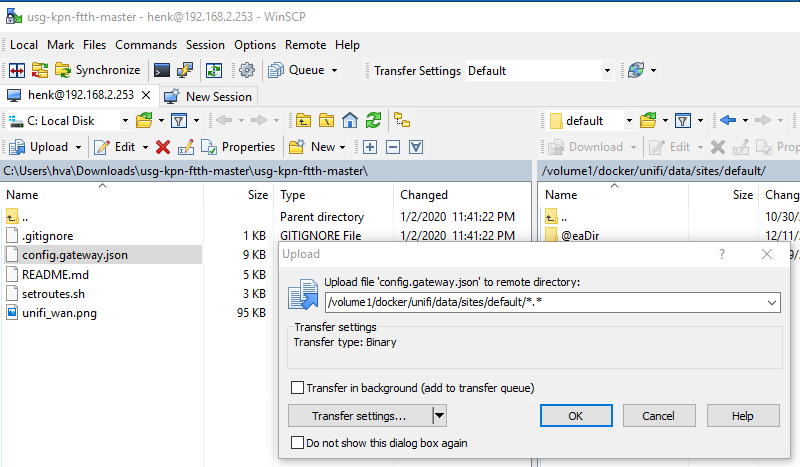
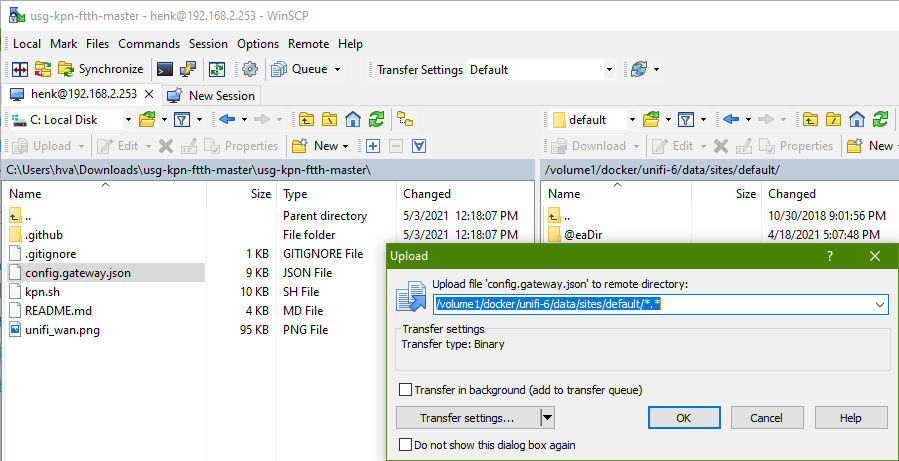
update to kpn-aio

Changed region(s): [[0.0, 0.0, 1.0, 1.0], [0.7812, 0.1215, 0.8125, 0.1822], [0.6875, 0.1215, 0.7188, 0.1822]]

diff --git a/_posts/2021-01-18-unifi-security-gateway-kpn-l2tp-vpn.md b/_posts/2021-01-18-unifi-security-gateway-kpn-l2tp-vpn.md
@@ -29,18 +29,6 @@ De volgende hardware hebben we nodig om deze handleiding te kunnen voltooien.
 |Unifi&nbsp;controller|Ubiquiti / anders|Met de controller stel je de USG in, deze kan op een stuk hardware (cloudkey) draaien maar ook op je computer, server, NAS rechstreeks of bijvoorbeeld via docker.|
 |VPN Client|Telefoon/Laptop|Een apparaat wat L2TP VPN ondersteuning heeft (Andriod, IOS, Mac (OSX) of Windows) en de mogelijkheid om dit te testen buiten je eigen internet verbinding om, bijvoorbeeld via 4G of WiFi van de buren.|
 
-> ***Let op:*** deze handleiding is bedoeld voor een Ubiquity Unifi Security Gateway 3. Indien je een USG 4 Pro hebt dien je in de setvpn.sh de interfaces aan te passen op de manier waarop je je USG 4 Pro hebt aangesloten. Bij de USG 3 is eth0 WAN en eth1 LAN.
-
-### Software
-
-In deze handleiding ga ik er vanuit dat we Windows 10 gebruiken waarbij we onderstaande software gaan gebruiken. Graag deze bestanden downloaden zodat ze klaar staan als we gaan beginnen.
-
-|Software|Omschrijving|
-|:---|:--|
-|[putty.exe&nbsp;(64&#x2011;bit)](https://www.chiark.greenend.org.uk/~sgtatham/putty/latest.html){:target="_blank"}|Met dit programma kunnen we via SSH inloggen op de USG en eventueel de controller om commando's uit te voeren.|
-|[WinSCP&nbsp;Portable](https://winscp.net/eng/downloads.php){:target="_blank"}|WinSCP gebruiken we om via Secure Copy Protocol bestanden van onze computer naar de USG en eventueel de controller te krijgen.|
-|[usg-kpn-ftth-vpn zip](https://github.com/coolhva/usg-kpn-ftth/archive/vpn.zip){:target="_blank"}|De inhoud van mijn github repo met VPN ondersteuning in zip formaat zodat we alle bestanden in het juiste (UNIX) formaat hebben. Deze gaan we later naar de juiste locaties (Controller) verplaatsen.|
-
 ### Gegevens
 
 Onderstaande informatie gaan we gebruiken in deze handleiding.
@@ -50,13 +38,6 @@ Onderstaande informatie gaan we gebruiken in deze handleiding.
 |Extern IPv4 adres|Dit is het IPv4 adres van je KPN aansluiting, dit kan je achterhalen om via je KPN verbinding naar bijvoorbeeld [test-ipv6.com](https://test-ipv6.com/) te gaan. ![get_ip_address](/usg-kpn-ftth/assets/img/usgkpnvpn/usg_vpn_get_remote_ip.png)|
 |URL&nbsp;Controller|Dit is het web adres waarop de unifi controller bereikbaar is, deze is bereikbaar op een IP adres en draait vaak op poort 8443 (HTTPS).|
 |Controller&nbsp;login|De gebruikersnaam en wachtwoord om in te kunnen loggen op de controller.|
-|SSH&nbsp;login&nbsp;gegevens USG|De gebruikersnaam en wachtwoord om via SSH in te kunnen loggen op de USG (zie kopje hieronder).|
-
-### SSH toegang unifi apparaten
-
-Om toegang te krijgen tot de USG via SSH moet dit geconfigureerd zijn. In de webinterface van de controller ga je naar <kbd>settings</kbd> en dan naar <kbd>Controller Configuration</kbd> en scroll je naar beneden naar <kbd>Element SSH Authentication</kbd>. Hier vink je <kbd>Element SSH authentication</kbd> aan en kies je een gebruikersnaam en wachtwoord. Daarna klik je op <kbd>Apply Changes</kbd>. Vanaf nu kan je met deze gebruikersnaam en wachtwoord via SSH inloggen op de USG.
-
-![unifi_controller_ssh](/usg-kpn-ftth/assets/img/usgkpn/unifi_controller_ssh.png)
 
 ## Uitgangssituatie
 
@@ -70,10 +51,6 @@ Voordat we beginnen moeten we eerst weten waar we starten. In deze handleiding s
 4. Ook zit de IPTV setupbox van KPN via een ethernet kabel verbonden aan een switch met IGMP en VLAN ondersteuning.
 5. Deze handleiding ([link](/usg-kpn-ftth/posts/unifi-security-gateway-kpn-ftth-iptv-ipv6/index.html)) is uitgevoerd en TV en internet werkt op dit moment.
 6. `[Optioneel]` De IPTV kastjes zitten in hun eigen VLAN door middel van deze handleiding [link](/usg-kpn-ftth/posts/unifi-security-gateway-kpn-iptv-vlan/index.html).
-
-Als we de bestanden hebben gedownload pakken we de twee zip bestanden (winscp en usg-kpn-ftth vpn.zip) uit zodat we een map met WinSCP, een map met de configuratie bestanden en als laatst putty.exe hebben.
-
-![files_downloaded](/usg-kpn-ftth/assets/img/usgkpnvpn/usg_vpn_files.png)
 
 ## Oude interface inschakelen
 
@@ -128,33 +105,9 @@ In de lijst met netwerken moet het nieuw aangemaakte VPN netwerk er nu bij staan
 
 ## WAN Netwerk controleren
 
-Het is belangrijk om te zorgen dat het WAN netwerk niet is geconfigureerd en dat <kbd>Use VLAN ID</kbd> is uitgevinkt. Het WAN netwerk wordt namelijk via de config.gateway.json geconfigureerd en ook setvpn.sh gaat er vanuit dat het WAN netwerk als volgt is ingesteld. Je kan deze instellingen bereiken door via <kbd>Settings</kbd> naar <kbd>Networks</kbd> te gaan en dan te kiezen voor <kbd>Edit</kbd> bij het <kbd>WAN</kbd> netwerk.
+Het is belangrijk om te zorgen dat het WAN netwerk niet is geconfigureerd en dat <kbd>Use VLAN ID</kbd> is uitgevinkt. Het WAN netwerk wordt namelijk via de config.gateway.json geconfigureerd en ook kpn.sh gaat er vanuit dat het WAN netwerk als volgt is ingesteld. Je kan deze instellingen bereiken door via <kbd>Settings</kbd> naar <kbd>Networks</kbd> te gaan en dan te kiezen voor <kbd>Edit</kbd> bij het <kbd>WAN</kbd> netwerk.
 
 ![networks_wan](/usg-kpn-ftth/assets/img/usgkpnvpn/usg_vpn_wan.png)
-
-## Setvpn.sh plaatsen
-
-Start WinSCP en klik in WinSCP op de knop <kbd>New Session</kbd> en vul de gegevens in van de USG. De eventuele waarschuwing van unkown server beantwoordt je met <kbd>Yes</kbd>. Een popup met een welkomstboodschap verschijnt en hier mag je op <kbd>Continue</kbd> klikken.
-
-![winscp_usg](/usg-kpn-ftth/assets/img/usgkpn/winscp_usg.png)
-
-Nadat de verbinding tot stand is gekomen navigeren we in het rechter venster naar de locatie ```/config/scripts/post-config.d```. In het linker scherm selecteren we setvpn.sh en klikken we weer op de knop <kbd>Upload</kbd>. Klik hierna op <kbd>Ok</kbd> en daarna is het bestand op de USG geplaatst.
-
-![winscp_usg_upload](/usg-kpn-ftth/assets/img/usgkpnvpn/usg_vpn_transfer_file.png)
-
-Nu moeten we het bestand uitvoerbaar maken. Dat doen we door de het bestand te selecteren en daarna met de rechtermuisknop er op te klikken en voor <kbd>Properties</kbd> te kiezen.
-
-![winscp_usg_select](/usg-kpn-ftth/assets/img/usgkpnvpn/usg_vpn_setvpn_properties.png)
-
-In de eigenschappen mag je een vinkje zetten bij elke <kbd>X</kbd> (bij <kbd>Octal</kbd> komt nu <kbd>0755</kbd> te staan) en daarna op <kbd>Ok</kbd> klikken.
-
-![winscp_usg_chmod](/usg-kpn-ftth/assets/img/usgkpnvpn/usg_vpn_setvpn_chmod_755.png)
-
-Nu mag je WinSCP sluiten en in de controller naar <kbd>Devices</kbd> gaan. Ga met de muis op de regel van de USG staan, rechts verschijnt de herstart optie en dan klik je op <kbd>Restart</kbd>.
-
-![unifi_controller_usg_restart](/usg-kpn-ftth/assets/img/usgkpnvpn/usg_vpn_restart.png)
-
-Na de herstart worden de VPN instellingen geactiveerd en kunnen we nu de VPN gaan testen.
 
 ## VPN Testen
 In dit voorbeeld pak ik een iPhone maar dezelfde logica kan worden gebruikt op een Android telefoon of laptop.

diff --git a/_posts/2019-12-31-unifi-security-gateway-kpn-ftth-iptv-ipv6.md b/_posts/2019-12-31-unifi-security-gateway-kpn-ftth-iptv-ipv6.md
@@ -117,17 +117,17 @@ Ik start door WinSCP.exe te openen en de gegevens van mijn controller in te vull
 
 ![winscp_controller_upload](/usg-kpn-ftth/assets/img/usgkpn/winscp_controller_upload.png)
 
-In het rechter venster navigeer ik naar de locatie ```<unifi_base>/data/sites/site_ID```, in mijn geval is dat /volume1/docker/unifi/data/sites/default, ik heb namelijk de map /volume1/docker/unifi gekoppeld aan de unifi map in de docker container waardoor dit mijn ```<unifi_base>``` locatie is. In het linker venster navigeer ik naar de map waarin ik <kbd>usg-kpn-ftth-master.zip</kbd> heb uitgepakt, selecteer ik het bestand <kbd>config.gateway.json</kbd> en klik ik links boven op <kbd>Upload</kbd>. Hierna klik ik op <kbd>Ok</kbd> en is het bestand <kbd>config.gateway.json</kbd> naar de juiste locatie gekopieërd.
+In het rechter venster navigeer ik naar de locatie ```<unifi_base>/data/sites/site_ID```, in mijn geval is dat /volume1/docker/unifi-6/data/sites/default, ik heb namelijk de map /volume1/docker/unifi-6/ gekoppeld aan de unifi map in de docker container waardoor dit mijn ```<unifi_base>``` locatie is. In het linker venster navigeer ik naar de map waarin ik <kbd>usg-kpn-ftth-master.zip</kbd> heb uitgepakt, selecteer ik het bestand <kbd>config.gateway.json</kbd> en klik ik links boven op <kbd>Upload</kbd>. Hierna klik ik op <kbd>Ok</kbd> en is het bestand <kbd>config.gateway.json</kbd> naar de juiste locatie gekopieërd.
 
 > Indien je op de controller naar de data map navigeert maar daarin geen map sites ziet kan je deze laten aanmaken, klik [hier](/usg-kpn-ftth/posts/unifi-security-gateway-sides-folder/index.html) voor de handleiding.
 
-## Setroutes.sh plaatsen
+## kpn.sh plaatsen
 
 Nadat we de JSON op de controller hebben geplaatst, gaan we nu een configuratie bestand op de USG plaatsen. Hiervoor klik ik in WinSCP op de knop <kbd>New Session</kbd> en vul ik de gegevens in van de USG. De eventuele waarschuwing van unkown server beantwoord ik met <kbd>Yes</kbd>. Een popup met een welkomstboodschap verschijnt en hier mag je op <kbd>Continue</kbd> klikken.
 
 ![winscp_usg](/usg-kpn-ftth/assets/img/usgkpn/winscp_usg.png)
 
-Nadat de verbinding tot stand is gekomen navigeren we in het rechter venster naar de locatie ```/config/scripts/post-config.d```. In het linker scherm selecteren we setroutes.sh en klikken we weer op de knop <kbd>Upload</kbd>. Klik hierna op <kbd>Ok</kbd> en daarna is het bestand op de USG geplaatst.
+Nadat de verbinding tot stand is gekomen navigeren we in het rechter venster naar de locatie ```/config/scripts/post-config.d```. In het linker scherm selecteren we kpn.sh en klikken we weer op de knop <kbd>Upload</kbd>. Klik hierna op <kbd>Ok</kbd> en daarna is het bestand op de USG geplaatst.
 
 ![winscp_usg_upload](/usg-kpn-ftth/assets/img/usgkpn/winscp_usg_upload.png)
 
@@ -155,7 +155,7 @@ Omdat we een geavanceerde configuratie toepassen zijn er een aantal dingen die a
 
 * Het WAN IP adres in de controller zal altijd 0.0.0.0 aangeven. Dit komt (volgens mij) omdat er twee WAN interfaces zijn (drie, als je PPPoE mee telt) en hij niet de juiste kan vinden.
 * Wanneer je direct inlogt op de USG via de webbrowser zal hij aangeven dat hij geen internet verbinding heeft. Hij heeft dit in feite wel maar het mechanisme om dat de detecteren werkt (volgens mij) niet vanwege de meerdere WAN interfaces.
-* Je kan een (L2TP) VPN volledig instellen via de controller maar om het werkend te maken dien je een aanvullend bestand ([setvpn.sh](https://github.com/coolhva/usg-kpn-ftth/blob/vpn/setvpn.sh)) in de map ```/config/scripts/post-config.d``` op de USG te zetten om de correcte WAN interface te configureren voor de VPN. Hier is ook een aparte [handleiding](/usg-kpn-ftth/posts/unifi-security-gateway-kpn-l2tp-vpn/index.html) voor gemaakt. 
+* Je kan een (L2TP) VPN volledig instellen via de controller, ik heb hier een aparte [handleiding](/usg-kpn-ftth/posts/unifi-security-gateway-kpn-l2tp-vpn/index.html) voor gemaakt. 
 
 ## Meer informatie
 

diff --git a/_posts/2020-12-08-unifi-security-gateway-kpn-iptv-vlan.md b/_posts/2020-12-08-unifi-security-gateway-kpn-iptv-vlan.md
@@ -159,7 +159,7 @@ Ik start door WinSCP.exe te openen en de gegevens van mijn controller in te vull
 
 ![winscp_controller_upload](/usg-kpn-ftth/assets/img/usgkpn/winscp_controller_upload.png)
 
-In het rechter venster navigeer ik naar de locatie ```<unifi_base>/data/sites/site_ID```, in mijn geval is dat /volume1/docker/unifi/data/sites/default, ik heb namelijk de map /volume1/docker/unifi gekoppeld aan de unifi map in de docker container waardoor dit mijn ```<unifi_base>``` locatie is. In het linker venster navigeer ik naar de map waarin ik <kbd>usg-kpn-ftth-vlan.zip</kbd> heb uitgepakt, selecteer ik het bestand <kbd>config.gateway.json</kbd> en klik ik links boven op <kbd>Upload</kbd>. Hierna klik ik op <kbd>Ok</kbd> en is het bestand <kbd>config.gateway.json</kbd> naar de juiste locatie gekopieërd.
+In het rechter venster navigeer ik naar de locatie ```<unifi_base>/data/sites/site_ID```, in mijn geval is dat /volume1/docker/unifi-6/data/sites/default, ik heb namelijk de map /volume1/docker/unifi-6/ gekoppeld aan de unifi map in de docker container waardoor dit mijn ```<unifi_base>``` locatie is. In het linker venster navigeer ik naar de map waarin ik <kbd>usg-kpn-ftth-vlan.zip</kbd> heb uitgepakt, selecteer ik het bestand <kbd>config.gateway.json</kbd> en klik ik links boven op <kbd>Upload</kbd>. Hierna klik ik op <kbd>Ok</kbd> en is het bestand <kbd>config.gateway.json</kbd> naar de juiste locatie gekopieërd.
 
 > Indien je op de controller naar de data map navigeert maar daarin geen map sites ziet kan je deze laten aanmaken, klik [hier](/usg-kpn-ftth/posts/unifi-security-gateway-sides-folder/index.html) voor de handleiding.
 
